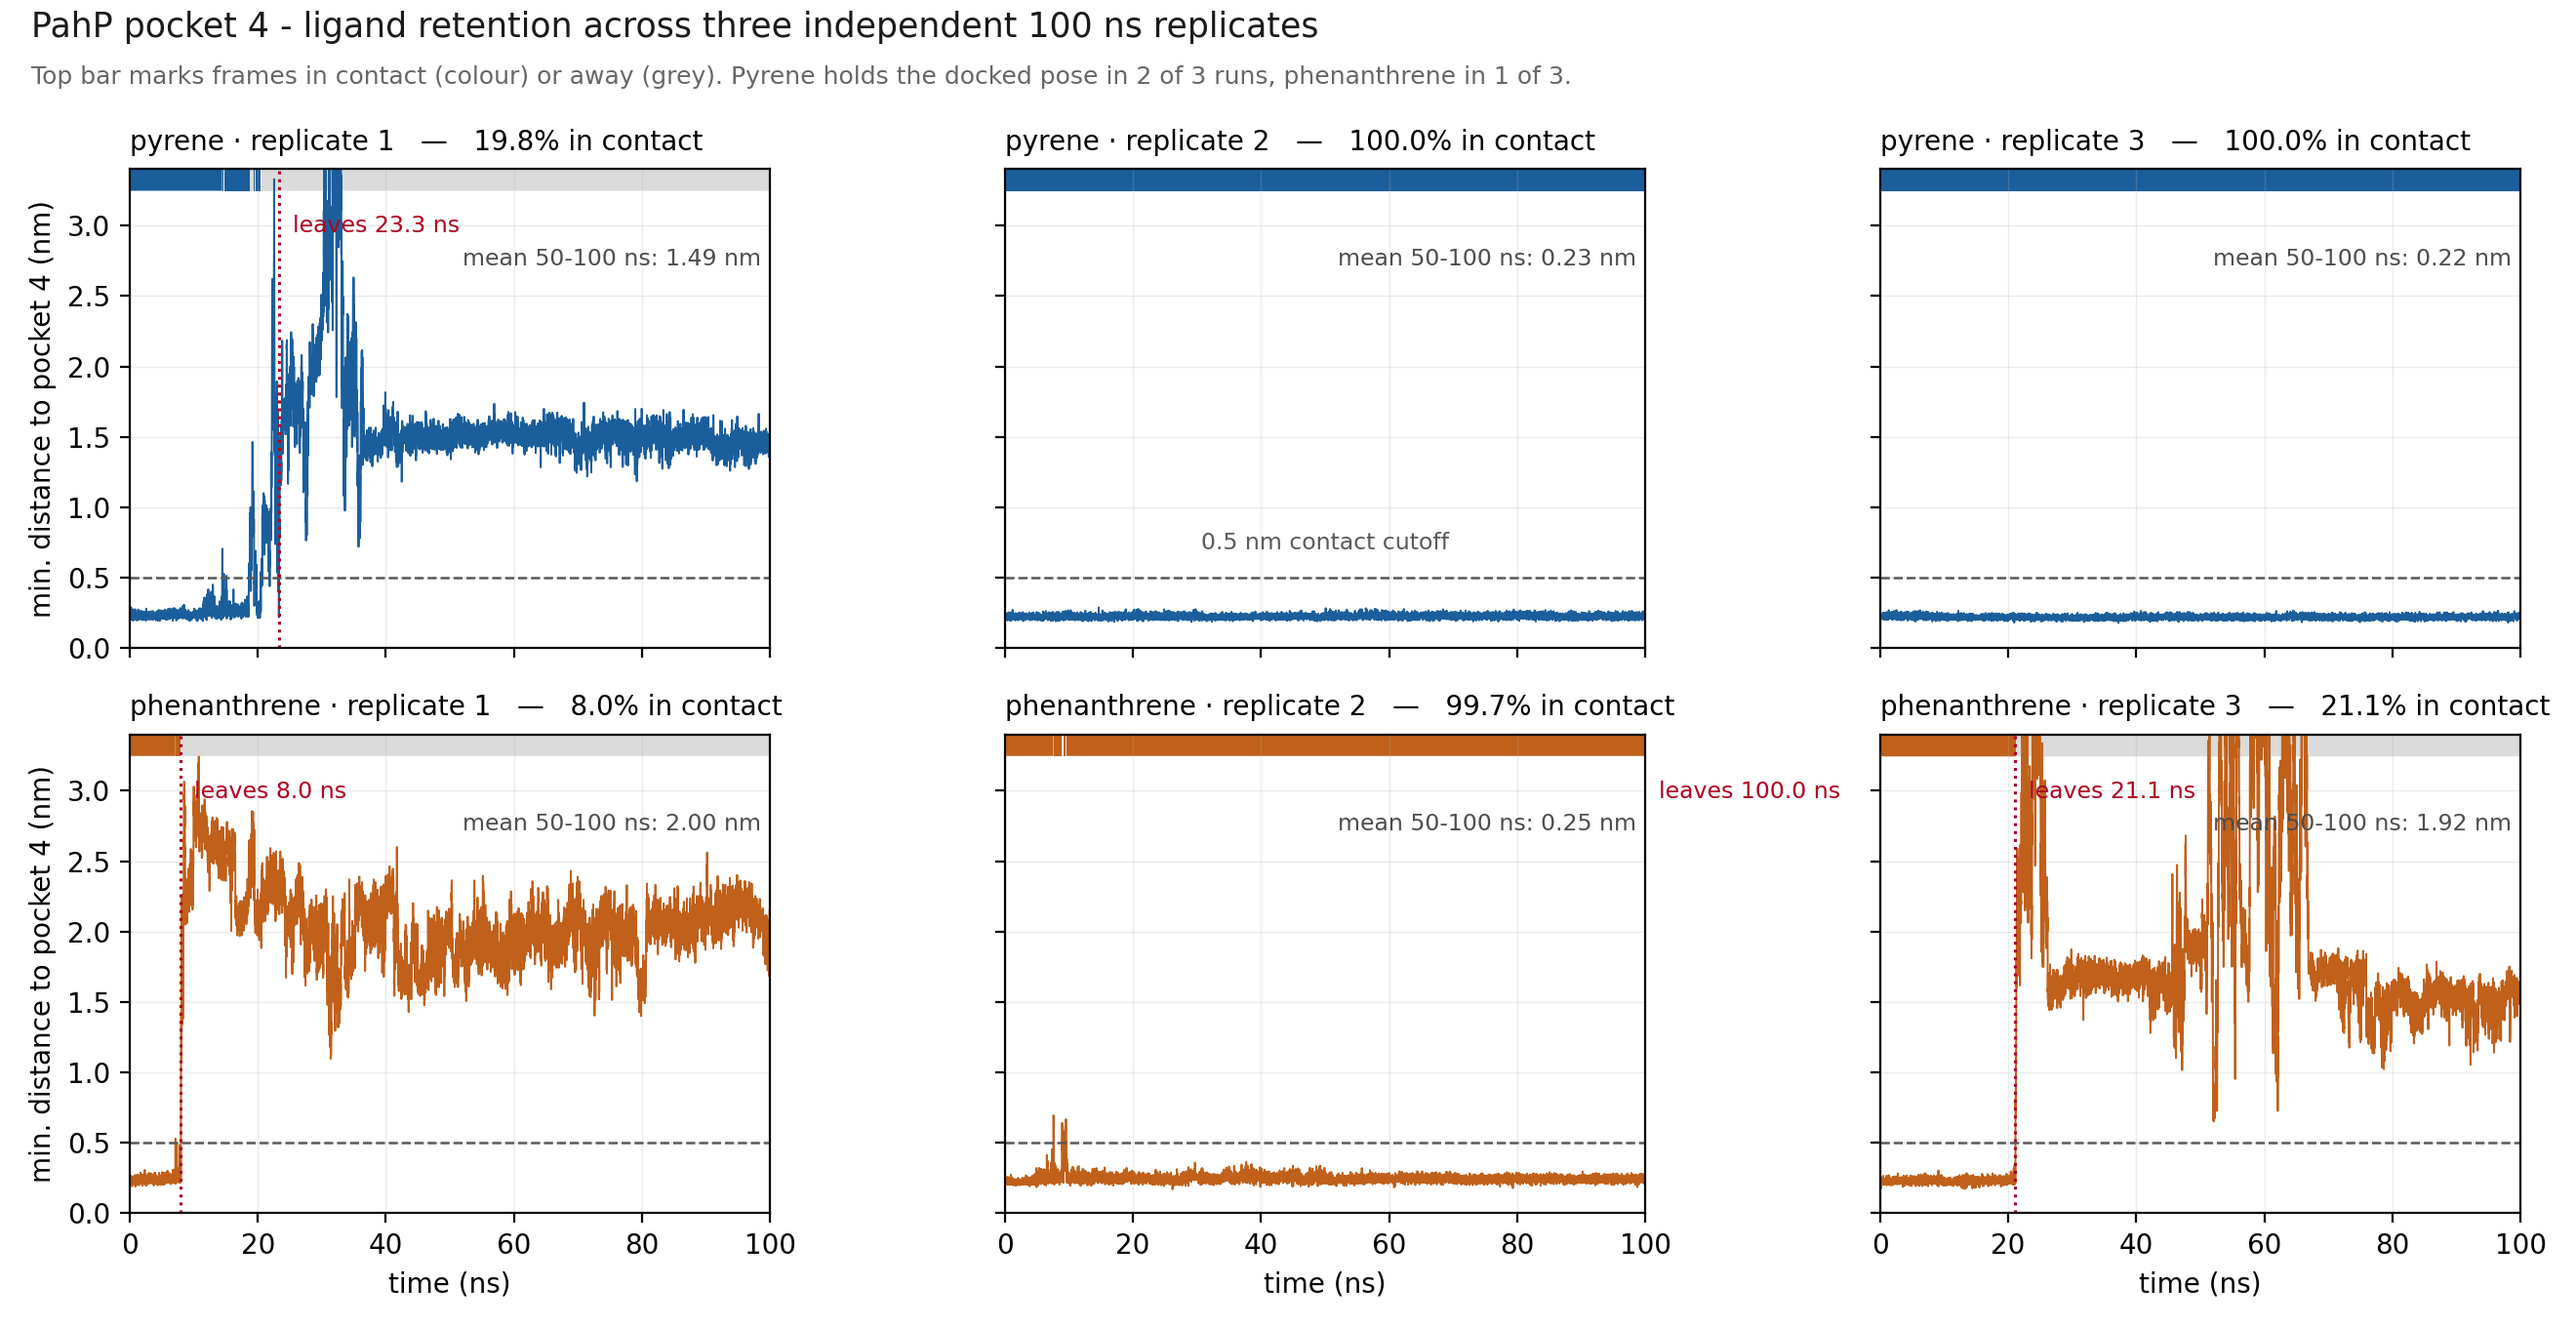
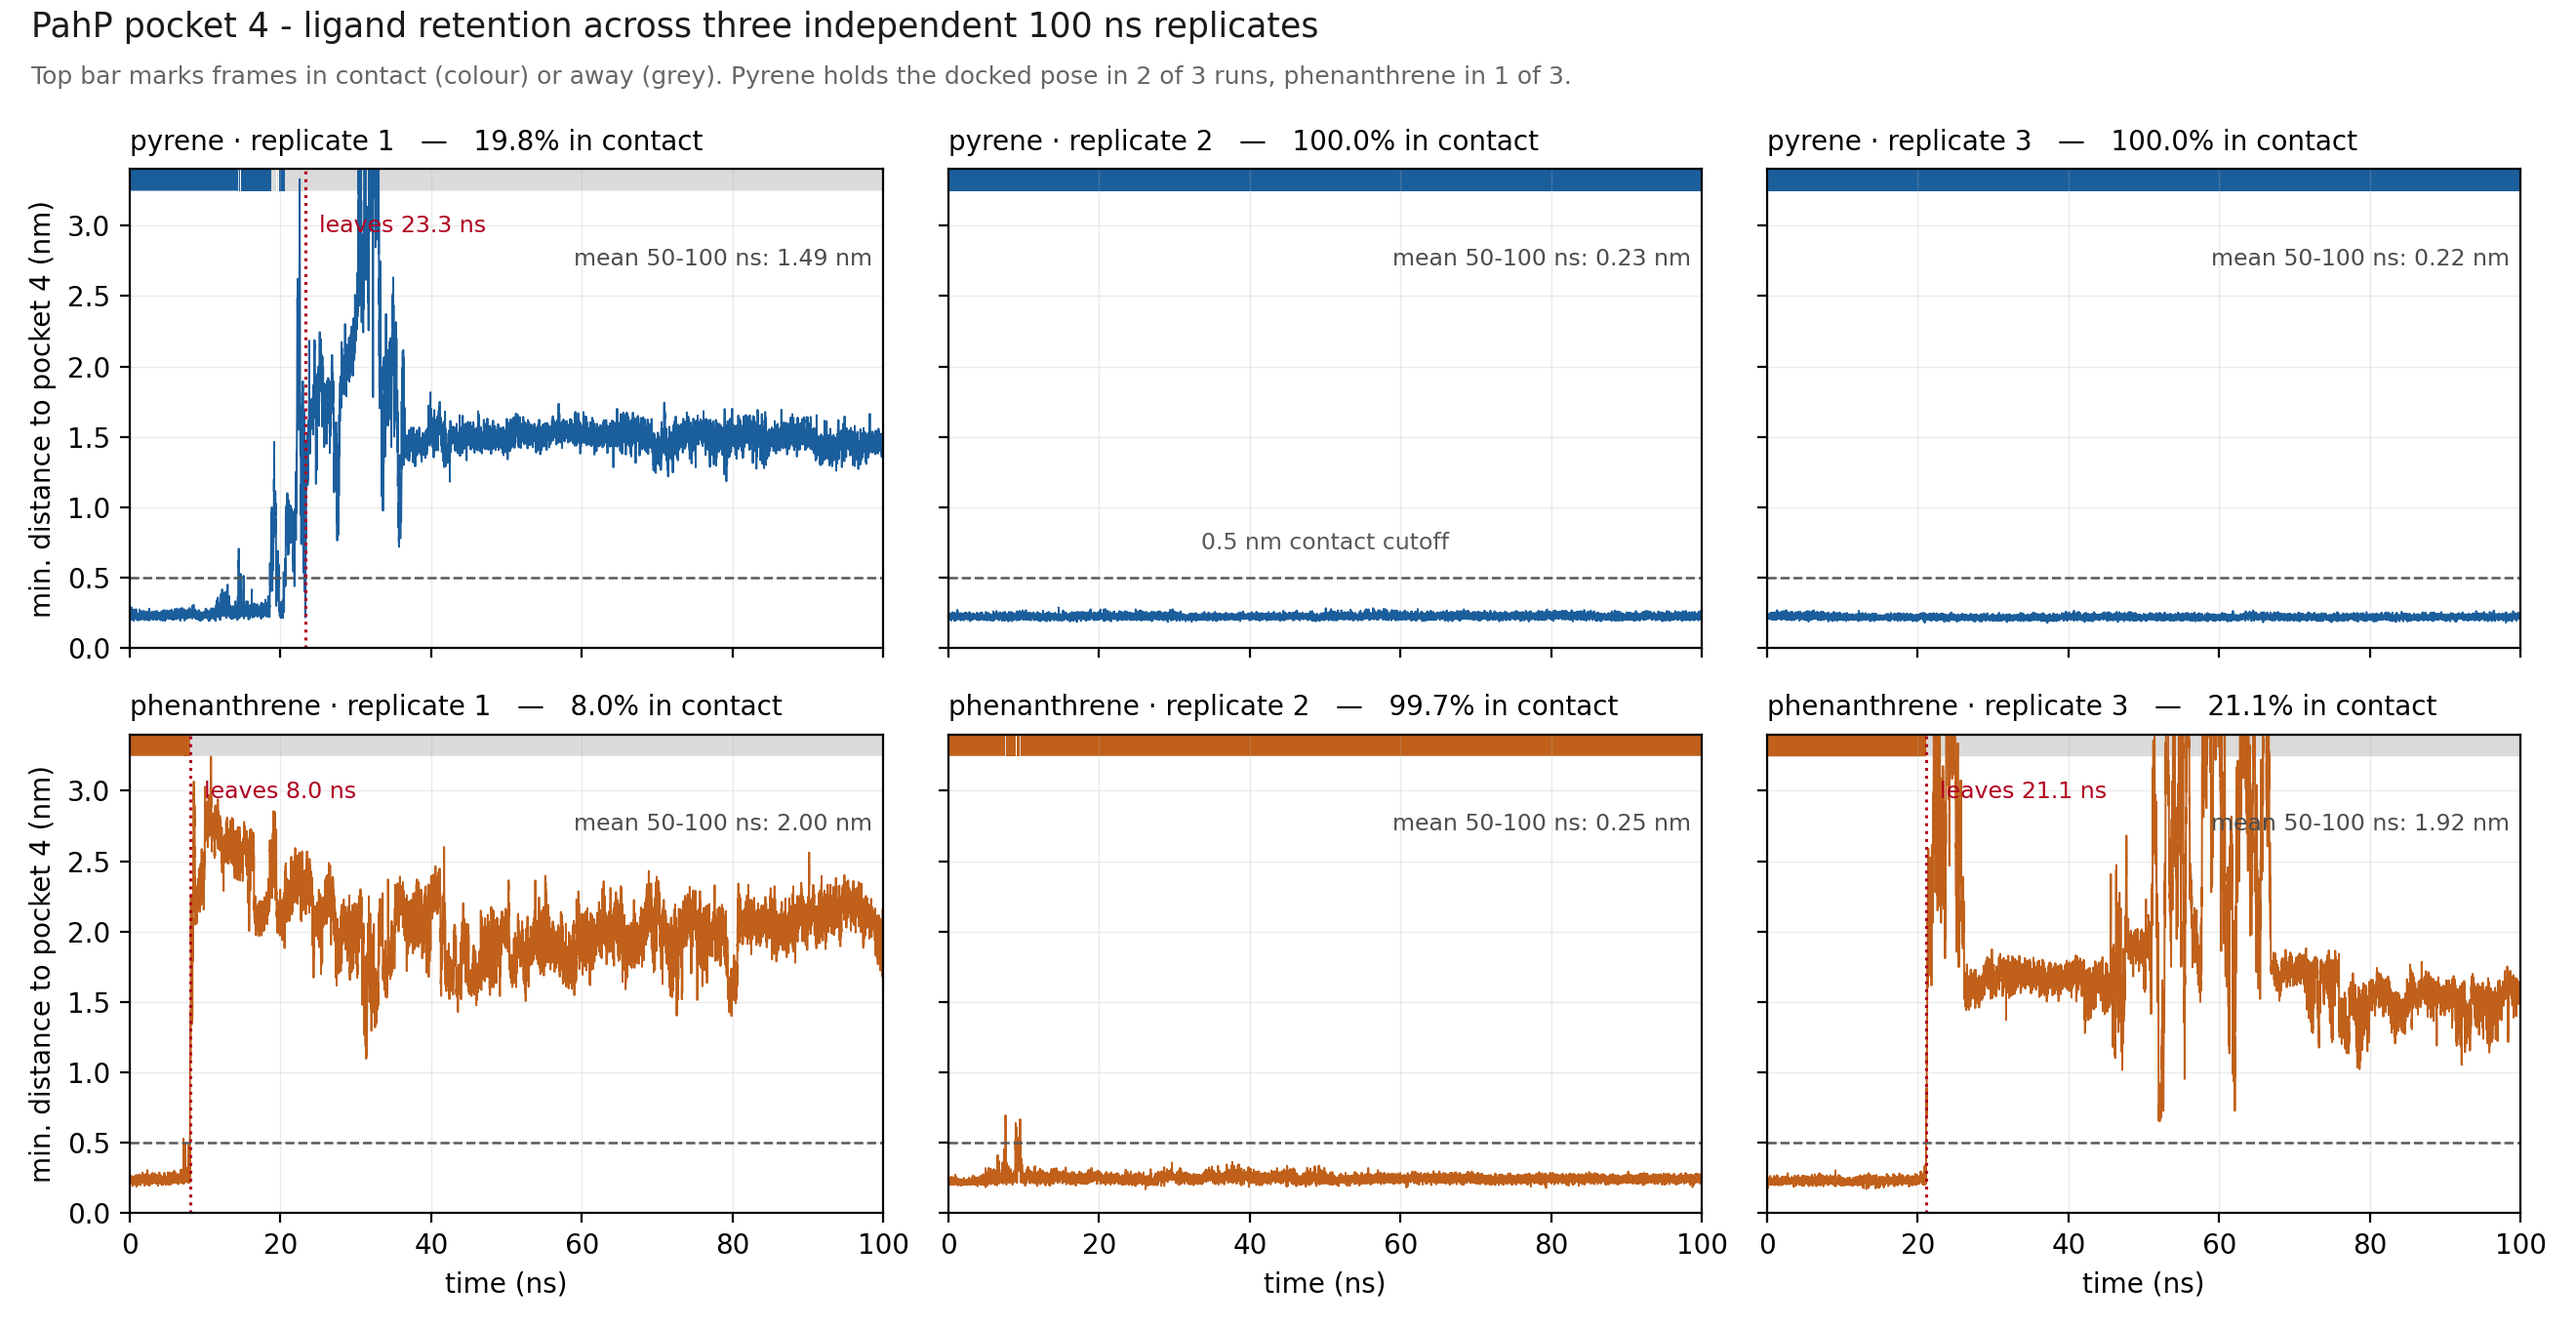
tool/autodock-vina: only annotate departure when the ligand leaves before the run ends

diff --git a/tools/autodock-vina/md/analysis/plot_replicates.py b/tools/autodock-vina/md/analysis/plot_replicates.py
@@ -23,7 +23,7 @@ for r, lig in enumerate(("pyrene", "phenanthrene")):
         a.fill_between(t, TOP * 0.955, TOP, where=~bound, color="0.86", lw=0)
         a.plot(t, y, color=COL[lig], lw=0.7)
         a.axhline(CUT, ls="--", lw=0.9, color="0.35")
-        if frac < 99.9:
+        if last < t[-1] - 1:
             a.axvline(last, ls=":", lw=1.1, color="#b00020")
             a.annotate(f"leaves {last:.1f} ns", (last, 2.95), xytext=(5, 0),
                        textcoords="offset points", fontsize=8.5, color="#b00020")

diff --git a/README.md b/README.md
@@ -1,100 +1,47 @@
-# iGEM Saarland 2026 — PAH Docking Comparison
+# MM-GBSA results — PahP + PAHs
 
-A **fair, reproducible comparison of docking tools** for the team's PAH biosensor. Every tool docks the
-**same PAH ligands** into the **same receptor** from the **same frozen input**, in **two explicit steps**
-(preprocessing, then docking), and returns **one standardized result file**. Python packages then merge the
-results — and the preprocessing recipes — into tables and plots.
+100 ns GROMACS MD (GPU, 310 K, TIP3P, neutralised with 8 Cl⁻ counterions and no added salt), MM-GBSA via gmx_MMPBSA 1.6.5 (igb=5, 150 mM *implicit* salt). PB was attempted but did not complete; GB only. Note the ionic-strength mismatch between the explicit MD (~29 mM from counterions alone) and the implicit rescoring (150 mM); unlikely to matter for neutral hydrophobic ligands, but it is a real inconsistency between the two stages.
 
-> **New here?**
-> - **Team member** assigned a tool → read **[`START_HERE.md`](START_HERE.md)**. Questions → **Elnaz** (coordinator).
-> - **Setting up the GitHub repo** (Ramin & Elnaz, technical) → read **[`SETUP_GITHUB.md`](SETUP_GITHUB.md)**.
-> - Branch & PR rules → **[`CONTRIBUTING.md`](CONTRIBUTING.md)**.
+Three independent replicates per ligand. **Which replicate a number comes from determines what it means** — see `../analysis/` for the stability evidence.
 
-## The science in one paragraph
-The biosensor targets **PahP**, a **periplasmic PAH-binding protein** (~317 aa) that directly binds the
-polycyclic aromatic hydrocarbon — so PahP is the **primary docking target**. **PahS** (~686 aa,
-outer-membrane sensor) is a **secondary** target (blind docking only). We dock a panel of PAHs — **pyrene**
-(primary) plus phenanthrene, benzo[a]pyrene, naphthalene, anthracene, and fluoranthene — with **glucose** as
-a negative control. Other constructs (CFP/YFP, GCaMP6f, MBP-mScarlet-G3BP1, pRS416/pET backbones) are
-**reference only**, not docking receptors.
+## The values to use
 
-## How it works (branch → two steps → result → compare)
-- `main` = stable/citable; `develop` = integration. **Nobody pushes to either directly.**
-- **One branch + one workspace folder per tool:** `tool/<tool>` ↔ `tools/<tool>/`. Teams deliver by
-  **Pull Request into `develop`**; only **Ramin/Elnaz** merge `develop → main`
-  (see [`CONTRIBUTING.md`](CONTRIBUTING.md)).
-- Each team works in its own `tools/<tool>/` folder in **two steps**:
-  1. **`preprocessing/`** — state exactly what prep the tool needs, and do it (recorded in a structured,
-     comparable manifest).
-  2. **`docking/`** — the actual docking run.
-- Each team commits exactly one `tools/<tool>/results/DOCKING_RESULT.json` — the single file the comparison
-  is built from — plus final poses.
-- Two analysis packages: `scripts/compare_results/` (the docking results) and
-  `scripts/compare_preprocessing/` (the preprocessing recipes + a team status dashboard).
+Replicate 2, the one run in which both ligands stayed in pocket 4 for the full 100 ns, giving the only well-sampled same-site comparison. 500 frames each, 0–100 ns.
 
-```
-  tool/<tool>  ──PR──►  develop  ──PR (Ramin/Elnaz only)──►  main
-```
+| | pyrene | phenanthrene |
+|---|---|---|
+| ΔVDWAALS | -32.94 | -24.06 |
+| ΔEEL | -5.82 | -3.47 |
+| ΔGGAS | -38.75 | -27.52 |
+| ΔGSOLV | +10.32 | +8.82 |
+| **ΔTOTAL** | **-28.43 ± 3.73** | **-18.71 ± 3.06** |
+| SEM | 0.17 | 0.14 |
 
-## Two comparisons, one goal
-Because preprocessing is separated from docking and recorded in the same structured form for every tool, we
-can compare not just the **results** but the **preprocessing** itself — and, as a stretch goal, **design one
-shared preprocessing that works for all tools** and re-dock from that single common starting point. See
-[`tools/README.md`](tools/README.md) and [`scripts/compare_preprocessing/README.md`](scripts/compare_preprocessing/README.md).
+Raw output: `rep2/pyrene_FINAL_RESULTS.dat` and `rep2/phenanthrene_FINAL_RESULTS.dat`, committed here.
 
-## ⚠ Scores are NOT comparable across tools
-Vina kcal/mol, GOLD ChemPLP, GlideScore, Uni-Mol confidence — different quantities on different scales. We
-never compare raw scores across tools; we compare **rank within each tool**, then a **cross-tool consensus
-rank**. The schema and scripts enforce this.
+Pyrene is 9.7 kcal/mol more favourable, and the separation survives even a pessimistic correction for frame correlation (~9σ at an assumed effective sample of 20). Binding is van der Waals dominated in both cases, with the ratio tracking ring count — 4 rings bury more than 3.
 
-## Repository layout
-```
-input/
-  raw/                # reference only — never docked (constructs/, final_plasmids/, literature/, slides/, notes/)
-  canonical/          # SHARED, FROZEN starting point — identical for all tools
-    targets/  PahP/ + PahS/  (sequence.fasta, structure.pdb*, binding_site.yaml*)  + target_metadata.csv
-    ligands/  ligands.smi, ligands.sdf, ligand_metadata.csv
-    docking_config.yaml   # single source of truth
-tools/                # ONE self-contained workspace per tool
-  _TEMPLATE/          # copy this to add a new tool
-  <tool>/
-    inputs/           # canonical inputs converted to the tool's formats (committed for review)
-    preprocessing/    # PREPROCESSING.yaml (comparable manifest) + steps.md + preprocess.sh
-    docking/          # DOCKING.md + run_docking.sh
-    configurations/   # config.yaml (box, seed, exhaustiveness, ...)
-    outputs/          # raw/native output & logs (committed for review)
-    results/          # DOCKING_RESULT.json  <-- the single standardized file  + poses/
-    status/           # status.yaml (progress + blockers)
-results/
-  DOCKING_RESULT.template.json   DOCKING_RESULT.example.json   # shared references to copy
-scripts/
-  compare_results/        # validate / combine / tables / plots + JSON schema
-  compare_preprocessing/  # compare recipes + status dashboard
-reports/tables/  reports/figures/   # generated outputs
-TEAM_INSTRUCTIONS.md
-```
-`*` = **placeholder** — `structure.pdb` and `binding_site.yaml` are TODO until an AlphaFold model exists.
+This **agrees with the Vina ranking** (-8.02 vs -7.45) and with the residence-time ordering across replicates (73% vs 43% of simulated time in contact). The earlier report that the methods disagreed was an artefact of comparing different sites on under-sampled frames.
 
-## Status (2026-07-08)
-- Canonical **ligands** ready (7 molecules, real 3D SDF). Canonical **sequences** ready (PahP 317 aa, PahS 686 aa).
-- Six tool workspaces scaffolded under `tools/` (preprocessing + docking templates ready to fill).
-- **BLOCKED:** no experimental structure → an **AlphaFold model + binding box** must be added per target
-  before docking. Until then `input_version` stays `v0-draft` and **`input-v1` is not frozen**.
-- Commercial-tool licences (Glide / GOLD / Discovery Studio): **to confirm** (see `docking_config.yaml`).
+## Superseded values
 
-## Quick start (analysis)
-```bash
-pip install -r requirements.txt     # root analysis deps (same as scripts/compare_results/requirements.txt)
+| run / window | pyrene | phenanthrene | why it does not describe pocket 4 |
+|---|---|---|---|
+| rep 1, 29.8–99.8 ns (original) | -13.88 ± 4.21 | -18.12 ± 4.41 | both ligands had already left; the two describe *different* post-migration sites |
+| rep 1, pocket 4 while occupied | -16.64 ± 5.46 (2–13 ns) | -17.38 ± 4.09 (1–7 ns) | only 56 and 31 frames, of a dissociating state |
+| rep 1, final site, 50–100 ns | -14.95 ± 1.89 | -19.82 ± 3.03 | a different site for each ligand |
 
-# docking results -> tables + figures
-bash scripts/compare_results/collect_from_branches.sh          # gather each tool/* branch's result
-python scripts/compare_results/compare.py reports/collected    # validate -> combine -> tables -> plots
+These are kept in `../analysis/windows/` for the record. The Kd derived from the original pair — pyrene ~0.16 nM, phenanthrene ~0.17 pM — are **withdrawn**.
 
-# preprocessing recipes + team status
-python scripts/compare_preprocessing/compare_preprocessing.py  # -> preprocessing_comparison / _consensus
-python scripts/compare_preprocessing/status_overview.py        # -> status_overview (team dashboard)
-```
-See [`TEAM_INSTRUCTIONS.md`](TEAM_INSTRUCTIONS.md) for the per-team workflow.
+Note what the rep-1 windows did to the comparison: at 56 and 31 frames the two ligands came out 0.74 kcal/mol apart against a combined SEM of ~1.03, i.e. indistinguishable, and the conclusion drawn was that MM-GBSA could not resolve them. With 500 frames of a bound complex they are 9.7 kcal/mol apart. The method was never the problem; the sampling was.
 
-## License
-See [`LICENSE`](LICENSE) — **TODO: Ramin/Elnaz to choose** (MIT or CC-BY suggested).
+## Do not derive a Kd
+
+RT·ln on -28.43 kcal/mol gives roughly 10⁻²¹ M. MM-GBSA omits configurational entropy and treats desolvation crudely, and the overestimate grows with burial — so the deeper the ligand sits, the worse the absolute number. These ΔG are comparative only.
+
+## Caveats
+
+- MM-GBSA was run on replicate 2 only. The bound portions of replicates 1 and 3 are too short to rescore meaningfully.
+- Phenanthrene's replicate 2 shifts into the adjacent THR254/PHE256/LEU258/LYS262 subsite while keeping contact with the pocket-4 lining throughout. Its value is for a slightly displaced pose within the same pocket.
+- The per-residue decomposition (`idecomp = 2`) returned zero for every protein residue with the whole interaction energy on the ligand; its SDs are propagation artifacts. Discarded.
+- A single wet-lab affinity measurement would resolve more than further computation.
